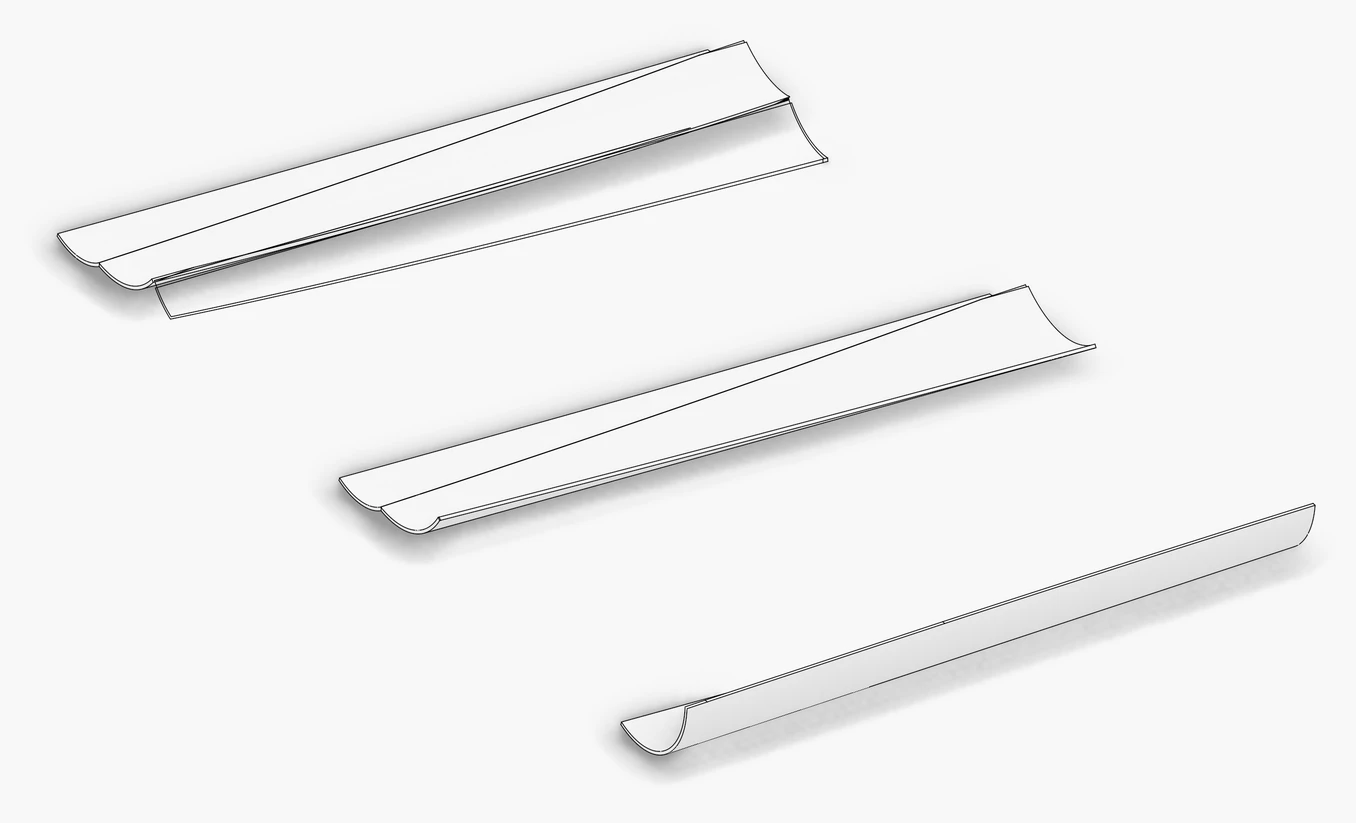
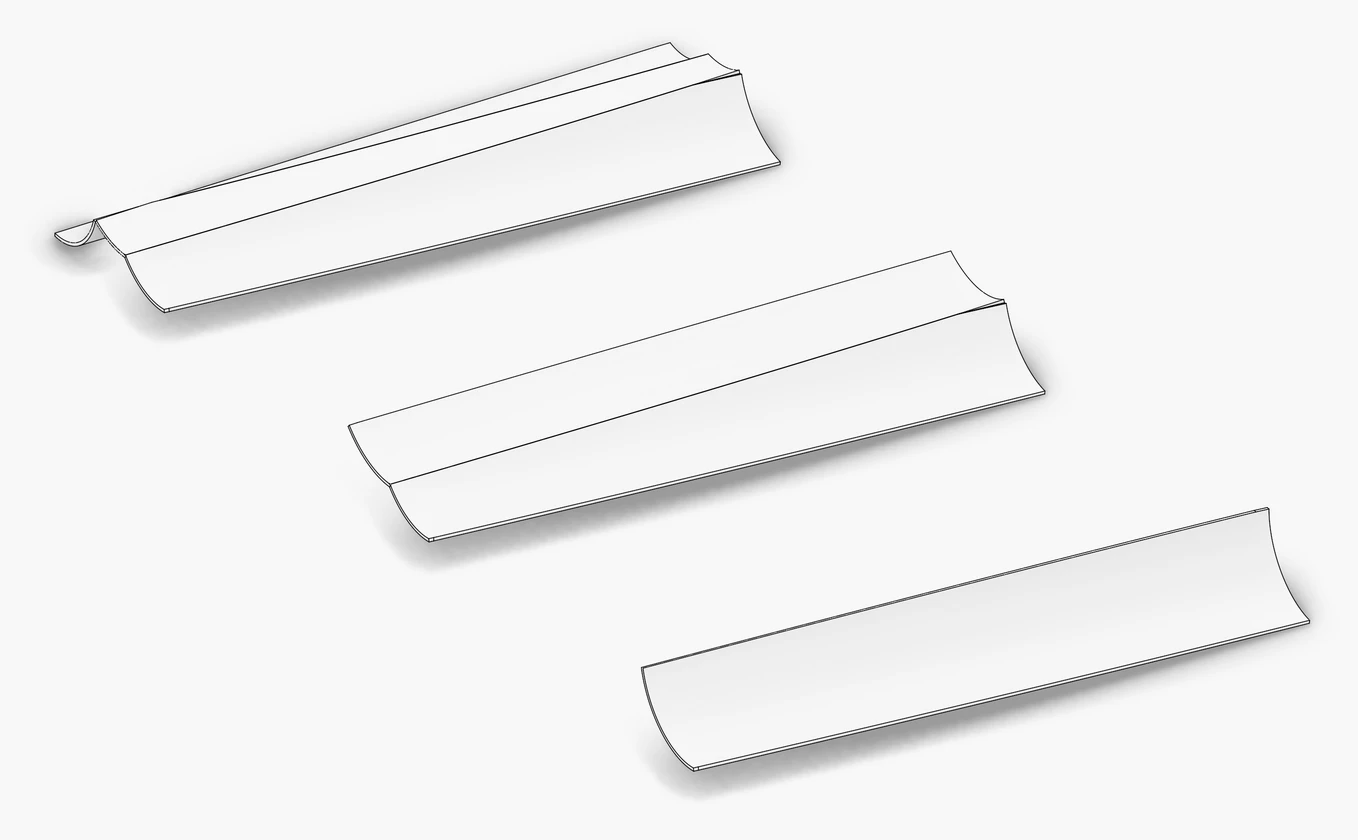
wood: CylinderCarving validates its inputs - every carver must leave a patch, none may cut another's patch in two, two patches must meet at min_angle or more, else it throws naming the carvers; the example's carvers 40 degrees apart over the stock, 700 mm deep, every stage valid

diff --git a/src/templates/curved_folding/cylinder_carving.h b/src/templates/curved_folding/cylinder_carving.h
@@ -19,6 +19,7 @@ public:
     const std::vector<Cylinder> carvers; // The cylinders b, c, d and so on that carve it, in sequence.
     const double length; // mm, the stock from its point along its axis.
     const double thickness; // mm, every plate, behind the carved surface.
+    const double min_angle; // radians, the least angle two carved patches may meet at.
     const size_t samples; // Generators every plate is interpolated through.
 
 private:
@@ -28,6 +29,7 @@ private:
         double high; // mm, where it ends.
         int low_by; // What ends it at the start: 0 the stock, 1 and 2 its end planes, 3 + j carver j.
         int high_by; // What ends it at the end, the same way.
+        int splitter; // The carver that cuts it in the middle, leaving two pieces; -1 for none.
     };
 
     double _distortion = 0.0; // The largest relative length error of any plate's development.
@@ -39,6 +41,7 @@ public:
         const std::vector<Cylinder>& carvers,
         double length = 12000.0,
         double thickness = 60.0,
+        double min_angle = 10.0 * Tolerance::TO_RADIANS,
         const std::string& name = "cylinder_carving",
         size_t samples = 128
     );
@@ -76,6 +79,12 @@ private:
 
     /// What ends each of the four boundaries at angle: the surface's start and end, the plate's start and end.
     std::array<int, 4> enders(size_t k, double angle) const;
+
+    /// Throws when a carver leaves no patch, cuts another's patch in two or meets one at less than min_angle.
+    void validate() const;
+
+    /// The unit normal of cylinder c at point, away from its axis.
+    static Vector radial(const Cylinder& cylinder, const Point& point);
 };
 
 inline CylinderCarving::CylinderCarving(
@@ -83,6 +92,7 @@ inline CylinderCarving::CylinderCarving(
     const std::vector<Cylinder>& carvers,
     double length,
     double thickness,
+    double min_angle,
     const std::string& name,
     size_t samples
 )
@@ -91,10 +101,14 @@ inline CylinderCarving::CylinderCarving(
       carvers(carvers),
       length(length),
       thickness(thickness),
+      min_angle(min_angle),
       samples(std::max<size_t>(samples, 8)) {
 
     if (carvers.empty() || length <= 0.0 || thickness <= 0.0)
         throw std::invalid_argument("A cylinder carving needs a carver, a length and a thickness");
+
+    // validation: every carver leaves one patch, none cut in two, every two meeting at a clear angle
+    validate();
 
     // plates: every carver's surface left inside the stock and outside the other carvers, its plate behind it in the stock
     add_plates();
@@ -151,7 +165,7 @@ inline std::optional<CylinderCarving::Part> CylinderCarving::part(size_t k, doub
     if (!in_stock)
         return std::nullopt;
 
-    Part kept = {in_stock->first, in_stock->second, 0, 0};
+    Part kept = {in_stock->first, in_stock->second, 0, 0, -1};
 
     // between the stock's two end planes
     const Vector axis = stock.direction.normalized();
@@ -169,10 +183,10 @@ inline std::optional<CylinderCarving::Part> CylinderCarving::part(size_t k, doub
         const int near_by = first < second ? 1 : 2;
 
         if (near > kept.low)
-            kept = {near, kept.high, near_by, kept.high_by};
+            kept = {near, kept.high, near_by, kept.high_by, -1};
 
         if (far < kept.high)
-            kept = {kept.low, far, kept.low_by, 3 - near_by};
+            kept = {kept.low, far, kept.low_by, 3 - near_by, -1};
     }
 
     // outside every other carver grown by offset: every cut leaves the longer piece
@@ -185,16 +199,68 @@ inline std::optional<CylinderCarving::Part> CylinderCarving::part(size_t k, doub
         if (!cut || cut->second <= kept.low || cut->first >= kept.high)
             continue;
 
-        if (cut->first - kept.low >= kept.high - cut->second)
-            kept = {kept.low, cut->first, kept.low_by, 3 + static_cast<int>(j)};
+        // a cut in the middle leaves two pieces a millimetre long or more: the longer kept, the carver named
+        const double before = cut->first - kept.low;
+        const double after = kept.high - cut->second;
+        const int splitter = before > 1.0 && after > 1.0 ? static_cast<int>(j) : kept.splitter;
+
+        if (before >= after)
+            kept = {kept.low, cut->first, kept.low_by, 3 + static_cast<int>(j), splitter};
         else
-            kept = {cut->second, kept.high, 3 + static_cast<int>(j), kept.high_by};
+            kept = {cut->second, kept.high, 3 + static_cast<int>(j), kept.high_by, splitter};
     }
 
     if (kept.low >= kept.high)
         return std::nullopt;
 
     return kept;
+}
+
+inline Vector CylinderCarving::radial(const Cylinder& cylinder, const Point& point) {
+
+    const Vector axis = cylinder.direction.normalized();
+    const Vector offset = point - cylinder.point;
+
+    return (offset - axis * offset.dot(axis)).normalized();
+}
+
+inline void CylinderCarving::validate() const {
+
+    for (size_t k = 0; k < carvers.size(); k++) {
+        const std::optional<std::pair<double, double>> run = compute_run(k);
+
+        if (!run)
+            throw std::invalid_argument(fmt::format("Carver {} does not cut the stock deep enough to leave a plate", k));
+
+        // along the run: no generator cut in two, every crease with another carver at a clear angle
+        const size_t count = 4 * samples;
+
+        for (size_t i = 0; i <= count; i++) {
+            const double angle = run->first + (run->second - run->first) * static_cast<double>(i) / static_cast<double>(count);
+            const std::optional<Part> kept = part(k, angle, 0.0);
+
+            if (!kept)
+                continue;
+
+            if (kept->splitter >= 0)
+                throw std::invalid_argument(fmt::format("Carver {} cuts carver {}'s patch in two", kept->splitter, k));
+
+            const std::pair<Point, Vector> line = generator(k, angle, 0.0);
+
+            for (const std::pair<double, int>& end : {std::make_pair(kept->low, kept->low_by), std::make_pair(kept->high, kept->high_by)}) {
+                if (end.second < 3)
+                    continue;
+
+                const Point point = line.first + line.second * end.first;
+                const Cylinder& other = carvers[static_cast<size_t>(end.second - 3)];
+                const double cosine = std::clamp(radial(carvers[k], point).dot(radial(other, point)), -1.0, 1.0);
+                const double meet = std::acos(cosine);
+
+                if (meet < min_angle)
+                    throw std::invalid_argument(fmt::format("Carvers {} and {} meet at {:.1f} degrees, under the least {:.1f}", k, end.second - 3, meet * Tolerance::TO_DEGREES, min_angle * Tolerance::TO_DEGREES));
+            }
+        }
+    }
 }
 
 inline std::optional<std::pair<double, double>> CylinderCarving::compute_run(size_t k) const {

diff --git a/examples/templates_curved_folding_34_cylinder_carving.cpp b/examples/templates_curved_folding_34_cylinder_carving.cpp
@@ -8,22 +8,29 @@ using namespace wood_session;
 int main() {
 
     WoodSession stages("cylinder_carving");
+    const std::array<double, 3> radii = {1500.0, 1800.0, 1300.0};
+    const std::array<double, 3> tilts = {0.06, -0.05, 0.04};
 
     for (size_t count = 1; count <= 3; count++) {
-        // every stage moved along y, the stock a along x and the carvers of their own radii, turned a few degrees off its axis
+        // every stage moved along y; the stock a along x, every carver 40 degrees apart over its top, cutting 700 mm deep, turned off its axis
         const Vector shift(0.0, 9000.0 * static_cast<double>(count - 1), 0.0);
         const CylinderCarving::Cylinder stock = {Point(0.0, 0.0, 0.0) + shift, Vector(1.0, 0.0, 0.0), 2000.0};
-        const std::vector<CylinderCarving::Cylinder> all = {
-            {Point(6000.0, 1700.0, 2100.0) + shift, Vector(1.0, 0.06, 0.0), 1500.0},
-            {Point(6000.0, -100.0, 2700.0) + shift, Vector(1.0, -0.05, 0.02), 1800.0},
-            {Point(6000.0, -2000.0, 2000.0) + shift, Vector(1.0, 0.04, -0.03), 1300.0},
-        };
-        const std::vector<CylinderCarving::Cylinder> carvers(all.begin(), all.begin() + static_cast<long>(count));
+        std::vector<CylinderCarving::Cylinder> carvers;
+
+        for (size_t i = 0; i < count; i++) {
+            const double around = (130.0 - 40.0 * static_cast<double>(i)) * Tolerance::TO_RADIANS;
+            const Vector out(0.0, std::cos(around), std::sin(around));
+            const Vector across(0.0, -std::sin(around), std::cos(around));
+            const Point axis = Point(6000.0, 0.0, 0.0) + shift + out * (stock.radius + radii[i] - 700.0);
+            carvers.push_back({axis, Vector(1.0, 0.0, 0.0) + across * tilts[i], radii[i]});
+        }
+
         CylinderCarving carving(
             stock,
             carvers,
             12000.0,
             60.0,
+            10.0 * Tolerance::TO_RADIANS,
             fmt::format("carving_{}", count)
         );
         const size_t plates = carving.get_elements_placed<PlateCurved>("plate").size();
@@ -37,7 +44,7 @@ int main() {
 
 /*
 |||||||| DESCRIPTION ||||||||
-Step 34 of the curved folding templates: a cylinder carved by cylinders in sequence. The stock a, 2 m radius and 12 m long along x, is carved by b of 1.5 m radius, then by c of 1.8 m, then by d of 1.3 m, every axis turned a few degrees off a's and shifted over its top; the three stages a - b, (a - b) - c and ((a - b) - c) - d stand side by side. Only the carved patches are made: every carver's surface inside the stock and outside the other carvers, curving inward, one 60 mm plate behind it. Every generator is clipped exactly, so every plate is a cylinder; two patches meet on the curve where their cylinders cross, both plates ending on the same inner crease, and a patch ends at the stock's surface and its end planes. Groups: stage_<carvers>.
+Step 34 of the curved folding templates: a cylinder carved by cylinders in sequence. The stock a, 2 m radius and 12 m long along x, is carved by b of 1.5 m radius, then by c of 1.8 m, then by d of 1.3 m, their axes 40 degrees apart over its top, every one cutting 700 mm deep and turned a few degrees off a's axis; the three stages a - b, (a - b) - c and ((a - b) - c) - d stand side by side. Only the carved patches are made: every carver's surface inside the stock and outside the other carvers, curving inward, one 60 mm plate behind it. The carving is validated first: every carver must leave a patch, none may cut another's patch in two, and two patches must meet at 10 degrees or more. Groups: stage_<carvers>.
 
 |||||||| DIRECTORY ||||||||
 cd wood_research/wood

diff --git a/docs/templates/curved_folding.md b/docs/templates/curved_folding.md
@@ -389,9 +389,9 @@ The same fan divided into 2, 4, 8 and 12 strips, each placed by its `corner` and
 
 ### Cylinder carving {#cylinder_carving}
 
-`CylinderCarving(stock, carvers, length, thickness)` (`curved_folding/cylinder_carving.h`): a cylinder `stock` carved by any number of cylinders in sequence, ((a - b) - c) - d, every one of its own axis and radius. Only the carved patches are made: every carver's surface inside the stock and outside the other carvers, curving inward, one plate a `thickness` behind it in the stock. Every generator of a carver is clipped exactly, so every plate is a cylinder; two patches meet on the curve where their cylinders cross, both plates ending on the crossing of their grown cylinders, a patch's free edge is cut square at the stock's surface and its ends on the stock's end planes. Every boundary is cut where what ends it changes, so its corners stay sharp. A carver that passes through the middle of another's patch, splitting it in two, is not handled.
+`CylinderCarving(stock, carvers, length, thickness, min_angle)` (`curved_folding/cylinder_carving.h`): a cylinder `stock` carved by any number of cylinders in sequence, ((a - b) - c) - d, every one of its own axis and radius. Only the carved patches are made: every carver's surface inside the stock and outside the other carvers, curving inward, one plate a `thickness` behind it in the stock. Every generator of a carver is clipped exactly, so every plate is a cylinder; two patches meet on the curve where their cylinders cross, both plates ending on the crossing of their grown cylinders, a patch's free edge is cut square at the stock's surface and its ends on the stock's end planes. Every boundary is cut where what ends it changes, so its corners stay sharp. The inputs are validated first: every carver must leave a patch, none may cut another's patch in two, and two patches must meet at `min_angle` or more, else the carving throws naming the carvers.
 
-A stock of 2 m radius, 12 m long, carved by three cylinders of 1.5, 1.8 and 1.3 m radius, their axes turned a few degrees and shifted over its top: a - b, (a - b) - c and ((a - b) - c) - d side by side (example `templates_curved_folding_34_cylinder_carving`).
+A stock of 2 m radius, 12 m long, carved by three cylinders of 1.5, 1.8 and 1.3 m radius, their axes 40 degrees apart over its top, cutting 700 mm deep and turned a few degrees: a - b, (a - b) - c and ((a - b) - c) - d side by side (example `templates_curved_folding_34_cylinder_carving`).
 
 ![cylinder carving](templates/templates_curved_folding_34_cylinder_carving_all.webp)
 
